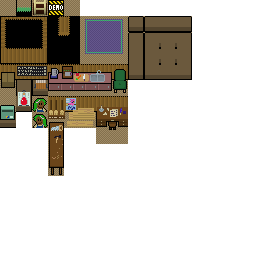
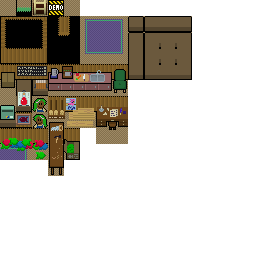
decorate fishwife interior, and show possessed quantity

Changed region(s): [[0.0, 0.4375, 0.1875, 0.625], [0.25, 0.5, 0.3125, 0.625]]

diff --git a/src/game/modal/modal_fishwife.c b/src/game/modal/modal_fishwife.c
@@ -108,7 +108,7 @@ static int _fishwife_init(struct modal *modal,const void *args,int argslen) {
   /* And the final layout.
    */
   MODAL->boxw=MODAL->promptw+8;
-  int minw=32+LIMIT_LIMIT*FISH_X_SPACING;
+  int minw=44+LIMIT_LIMIT*FISH_X_SPACING;
   if (MODAL->boxw<minw) MODAL->boxw=minw;
   MODAL->boxh=4+MODAL->prompth+ROWH*MODAL->rowc+4;
   MODAL->boxx=(FBW>>1)-(MODAL->boxw>>1);
@@ -268,6 +268,24 @@ static void _fishwife_render(struct modal *modal) {
       need_text=1;
     }
   }
+  
+  // Possessed quantity, far left of each row.
+  graf_set_tint(&g.graf,0x808080ff);
+  for (row=MODAL->rowv,i=MODAL->rowc,y=MODAL->prompty+MODAL->prompth+8;i-->0;row++,y+=ROWH) {
+    int x=MODAL->boxx+22;
+    int v=0;
+    switch (row->itemid) {
+      case NS_itemid_gold: v=store_get_fld16(NS_fld16_gold); break;
+      case NS_itemid_greenfish: v=store_get_fld16(NS_fld16_greenfish); break;
+      case NS_itemid_bluefish: v=store_get_fld16(NS_fld16_bluefish); break;
+      case NS_itemid_redfish: v=store_get_fld16(NS_fld16_redfish); break;
+    }
+    if (v>=999) v=999;
+    if (v>=100) { graf_tile(&g.graf,x,y,0x90+v/100,0); x+=4; }
+    if (v>=10) { graf_tile(&g.graf,x,y,0x90+(v/10)%10,0); x+=4; }
+    graf_tile(&g.graf,x,y,0x90+v%10,0);
+  }
+  graf_set_tint(&g.graf,0);
   
   // Row text.
   if (need_text) {

diff --git a/src/game/shared_symbols.h b/src/game/shared_symbols.h
@@ -826,12 +826,12 @@
 #define NS_fld_minesweep2 216 /* west of the ladder; gates zoo */
 #define NS_fld_jigpiece_underlake 217
 #define NS_fld_jigpiece_ne 218
-#define NS_fld_burn1 219
-#define NS_fld_burn2 220
-#define NS_fld_burn3 221
-#define NS_fld_burn4 222
-#define NS_fld_burn5 223
-#define NS_fld_burn6 224
+#define NS_fld_burn1 219 /* unused */
+#define NS_fld_burn2 220 /* unused */
+#define NS_fld_burn3 221 /* unused */
+#define NS_fld_burn4 222 /* unused */
+#define NS_fld_burn5 223 /* unused */
+#define NS_fld_burn6 224 /* unused */
 #define NS_fld_forest_secret_entrance 225
 #define NS_fld_surveyor_complete 226
 #define NS_fld_motion_economist 227

diff --git a/README.md b/README.md
@@ -57,7 +57,7 @@ Requires [Egg](https://github.com/aksommerville/egg2) to build.
 - [ ] I kind of want to throw the Princess in the Wishing Well. Can we make that happen?
 - [ ] Broom Race: Needs a bump sound when you crash. And can we do whooshing wind depending on velocity?
 - [ ] Do something if you fly a figure-eight around the sirens.
-- [ ] Fishwife's modal should show how many you have in hand.
+- [x] Fishwife's modal should show how many you have in hand.
 - [x] Bell should animate and should draw monsters.
 
 - Challenges for Ice Palace and other bonus zones. Underworld. Back of the temple? Goblins' cave?
@@ -91,7 +91,7 @@ Requires [Egg](https://github.com/aksommerville/egg2) to build.
 - - - Replace with Goody's house: She tells you about the wand and teaches spells.
 - - [ ] Underground entrance house
 - - - Same concerns as Dot's ladder, make it a little secret.
-- - [ ] Fishwife
+- - [x] Fishwife
 - - [x] Carpenter
 - [ ] Battlefield
 - - [ ] Blue Captain's tent
